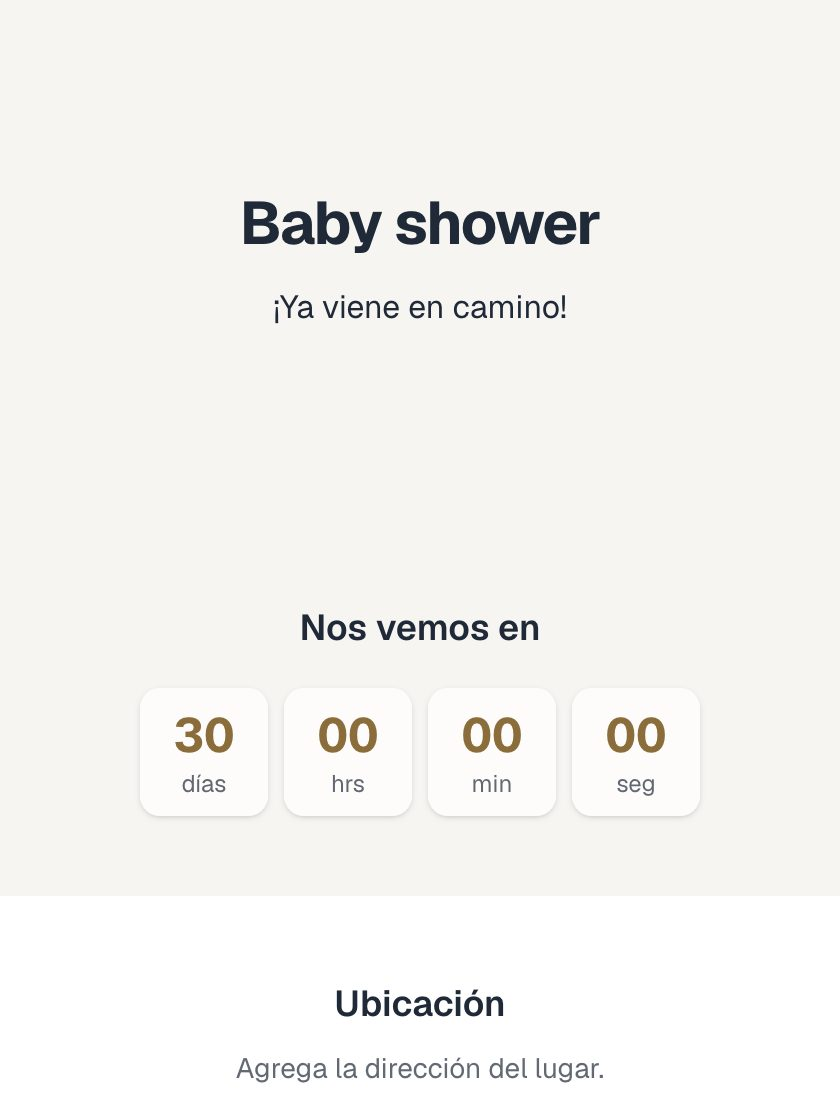
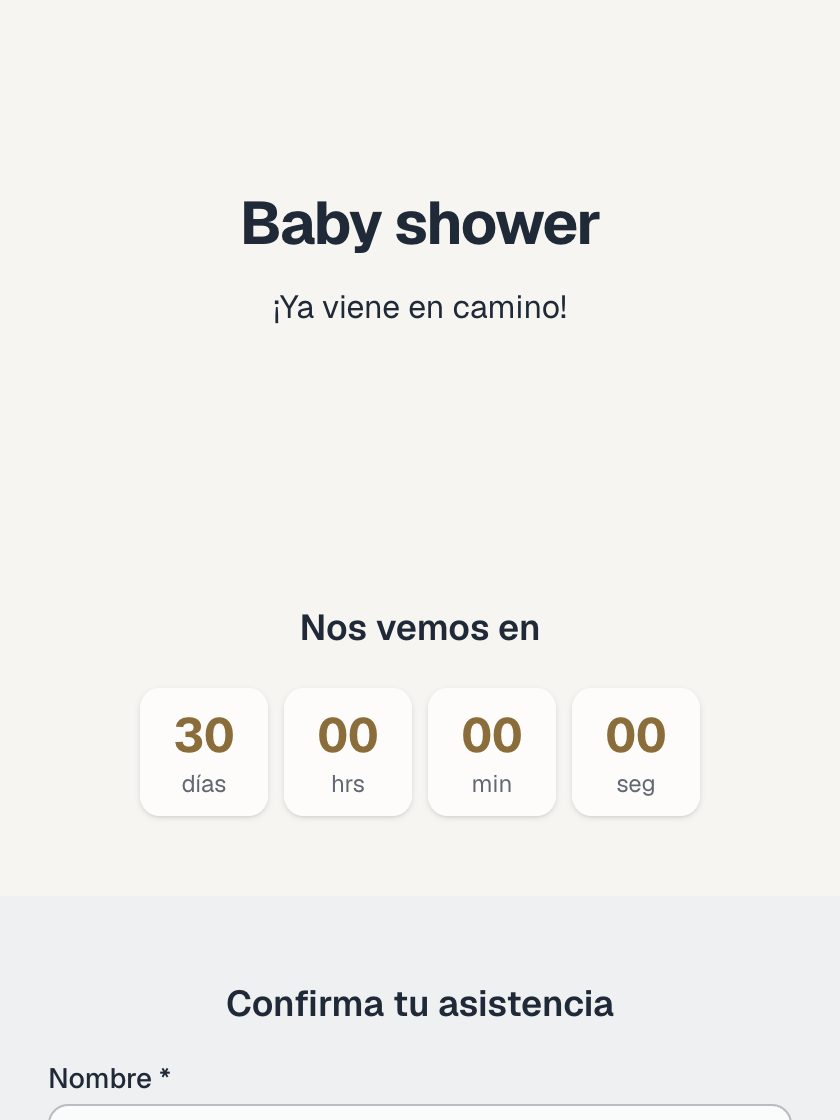
fix(modules): el copy de anfitrion deja de exhibirse en el escaparate
Salio al mirar el catalogo con las miniaturas puestas: la primera tarjeta
mostraba «Ubicación / Agrega la dirección del lugar» como si fuera parte del
diseño. Es una instruccion dirigida al ANFITRION, y el mismo componente pinta
la pagina publica, asi que tambien la leia un invitado.

Medido: de las 50 plantillas activas, **40 tienen modulo de mapa sin
direccion**. El contador tenia el mismo patron (`Define la fecha del evento
para activar la cuenta regresiva`).

CIFRA CORREGIDA: al regenerar, cambiaron **4 miniaturas, no 40**. Las 40
plantillas tienen el defecto, pero el placeholder solo se veia en las
miniaturas donde el modulo de mapa cae dentro del recorte de 560px — las 4
del seed original con contenido mas escueto (baby-shower, cumpleanos-moderno,
evento-corporativo, xv-anos). Confundi «plantillas con el defecto» con
«miniaturas que lo exhibian», y lo dije como si fuera lo mismo. El arreglo
sigue valiendo para las 40 en la pagina publica, donde no hay recorte.

Una galeria donde una tarjeta da instrucciones de configuracion no cumple el
criterio de la Fase 4 — «que la galeria de un producto de diseño muestre
diseños» — asi que esto entra en la fase, no en una tarea aparte.

El mecanismo correcto YA existia y no se usaba: `RsvpPreview` recibe
`editorHint` para exactamente esto («La confirmacion es interactiva en la
invitacion publicada»). Se cablea igual para el contador y el mapa:

- CONTADOR sin fecha valida: en publico el modulo se OMITE entero, porque
[…]

Changed region(s): [[0.2476, 0.875, 0.7429, 0.9062], [0.2786, 0.9375, 0.7119, 0.9688], [0.0619, 0.9375, 0.2167, 1.0]]

diff --git a/src/components/modules/previews.tsx b/src/components/modules/previews.tsx
@@ -170,9 +170,16 @@ export function WelcomePreview({ config }: { config: WelcomeConfig }) {
 export function CountdownPreview({
   config,
   eventDate = "",
+  editorHint = false,
 }: {
   config: CountdownConfig;
   eventDate?: string;
+  /**
+   * Solo el EDITOR muestra los avisos dirigidos al anfitrión. En la página
+   * pública —y en las miniaturas del catálogo, que se capturan contra ella—
+   * un módulo sin datos no debe pedirle nada al invitado.
+   */
+  editorHint?: boolean;
 }) {
   const [now, setNow] = useState<number>(0);
 
@@ -210,30 +217,60 @@ export function CountdownPreview({
     </div>
   );
 
+  // Sin fecha valida no hay cuenta atras que mostrar. En el editor se explica
+  // por que; en publico el modulo se OMITE entero, porque «Faltan» seguido de
+  // nada parece un error y una instruccion al anfitrion no es asunto del
+  // invitado.
+  //
+  // Se vio mirando el catalogo con las miniaturas puestas. Las cifras, para
+  // que nadie las infle: **40 de 50 plantillas** tienen el modulo de mapa sin
+  // direccion —y por tanto exhibian la instruccion en su pagina publica—, pero
+  // al regenerar solo cambiaron **4 miniaturas**, las del seed original con
+  // contenido mas escueto, porque en las demas el modulo cae por debajo del
+  // recorte de 560px. Plantillas afectadas y miniaturas afectadas NO son el
+  // mismo numero.
+  if (!valid) {
+    if (!editorHint) return null;
+    return (
+      <Section tint className="flex flex-col items-center gap-4 text-center">
+        <h3 className="text-lg font-semibold @2xl/inv:text-2xl @4xl/inv:text-3xl @5xl/inv:text-4xl">
+          {config.title || "Faltan"}
+        </h3>
+        <p className="text-sm opacity-70">
+          Define la fecha del evento para activar la cuenta regresiva.
+        </p>
+      </Section>
+    );
+  }
+
   return (
     <Section tint className="flex flex-col items-center gap-4 text-center">
       <h3 className="text-lg font-semibold @2xl/inv:text-2xl @4xl/inv:text-3xl @5xl/inv:text-4xl">
         {config.title || "Faltan"}
       </h3>
-      {valid ? (
-        <div className="flex flex-wrap justify-center gap-2 @2xl/inv:gap-4">
-          {cell(days, "días")}
-          {cell(hours, "hrs")}
-          {cell(minutes, "min")}
-          {cell(seconds, "seg")}
-        </div>
-      ) : (
-        <p className="text-sm opacity-70">
-          Define la fecha del evento para activar la cuenta regresiva.
-        </p>
-      )}
+      <div className="flex flex-wrap justify-center gap-2 @2xl/inv:gap-4">
+        {cell(days, "días")}
+        {cell(hours, "hrs")}
+        {cell(minutes, "min")}
+        {cell(seconds, "seg")}
+      </div>
     </Section>
   );
 }
 
 // ---- Map ------------------------------------------------------------------
 
-export function MapPreview({ config }: { config: MapConfig }) {
+export function MapPreview({
+  config,
+  editorHint = false,
+}: {
+  config: MapConfig;
+  /** Ver `CountdownPreview`: los avisos al anfitrión son solo del editor. */
+  editorHint?: boolean;
+}) {
+  // Sin direccion NI nombre del lugar el modulo no tiene contenido: en publico
+  // se omite, en el editor se explica.
+  if (!config.address && !config.venueName && !editorHint) return null;
   const mapsUrl = config.address
     ? `https://www.google.com/maps/search/?api=1&query=${encodeURIComponent(config.address)}`
     : "";
@@ -263,7 +300,11 @@ export function MapPreview({ config }: { config: MapConfig }) {
           </a>
         </>
       ) : (
-        <p className="text-sm opacity-70">Agrega la dirección del lugar.</p>
+        // El nombre del lugar SI es contenido util para el invitado, asi que
+        // se conserva arriba; lo que se calla en publico es la instruccion.
+        editorHint && (
+          <p className="text-sm opacity-70">Agrega la dirección del lugar.</p>
+        )
       )}
     </Section>
   );

diff --git a/src/app/dashboard/templates/page.tsx b/src/app/dashboard/templates/page.tsx
@@ -76,7 +76,7 @@ export default async function TemplatesPage() {
         </div>
       ) : (
         <div className="grid gap-4 sm:grid-cols-2 lg:grid-cols-3">
-          {list.map((tpl) => (
+          {list.map((tpl, i) => (
             <Card key={tpl.id} className="flex flex-col overflow-clip pt-0">
               {/*
                 Miniatura a sangre: `pt-0` en la tarjeta y `overflow-clip` para
@@ -102,6 +102,15 @@ export default async function TemplatesPage() {
                     // a `next/image` para que no sirva la imagen de ancho
                     // completo en una rejilla de tres.
                     sizes="(min-width: 1024px) 33vw, (min-width: 640px) 50vw, 100vw"
+                    // Las tres primeras son las candidatas a LCP: la rejilla
+                    // es de tres columnas en escritorio, asi que estan sobre
+                    // el pliegue. `next/image` avisaba en consola —«detected
+                    // as the Largest Contentful Paint, add loading=eager»—
+                    // porque por defecto van en `lazy`, y eso retrasa la
+                    // primera pintura util del catalogo. El resto se quedan
+                    // perezosas: son 50 imagenes y cargarlas todas de golpe
+                    // seria peor que el problema.
+                    priority={i < 3}
                     className="object-cover object-top"
                   />
                   <span className="sr-only">Ver {tpl.name} en grande</span>

diff --git a/src/components/modules/registry.tsx b/src/components/modules/registry.tsx
@@ -88,14 +88,20 @@ export const MODULE_REGISTRY: Record<ModuleType, ModuleEntry> = {
     Editor: ({ config, onChange, eventDate, onSetEventDate }) => (
       <CountdownEditor config={config} onChange={onChange} eventDate={eventDate} onSetEventDate={onSetEventDate} />
     ),
-    Preview: ({ config, eventDate }) => (
-      <CountdownPreview config={config as never} eventDate={eventDate ?? ""} />
+    Preview: ({ config, eventDate, editorHint }) => (
+      <CountdownPreview
+        config={config as never}
+        eventDate={eventDate ?? ""}
+        editorHint={editorHint}
+      />
     ),
   },
   map: {
     Icon: MapPinIcon,
     Editor: ({ config, onChange }) => <MapEditor config={config} onChange={onChange} />,
-    Preview: ({ config }) => <MapPreview config={config as never} />,
+    Preview: ({ config, editorHint }) => (
+      <MapPreview config={config as never} editorHint={editorHint} />
+    ),
   },
   gallery: {
     Icon: ImagesIcon,
